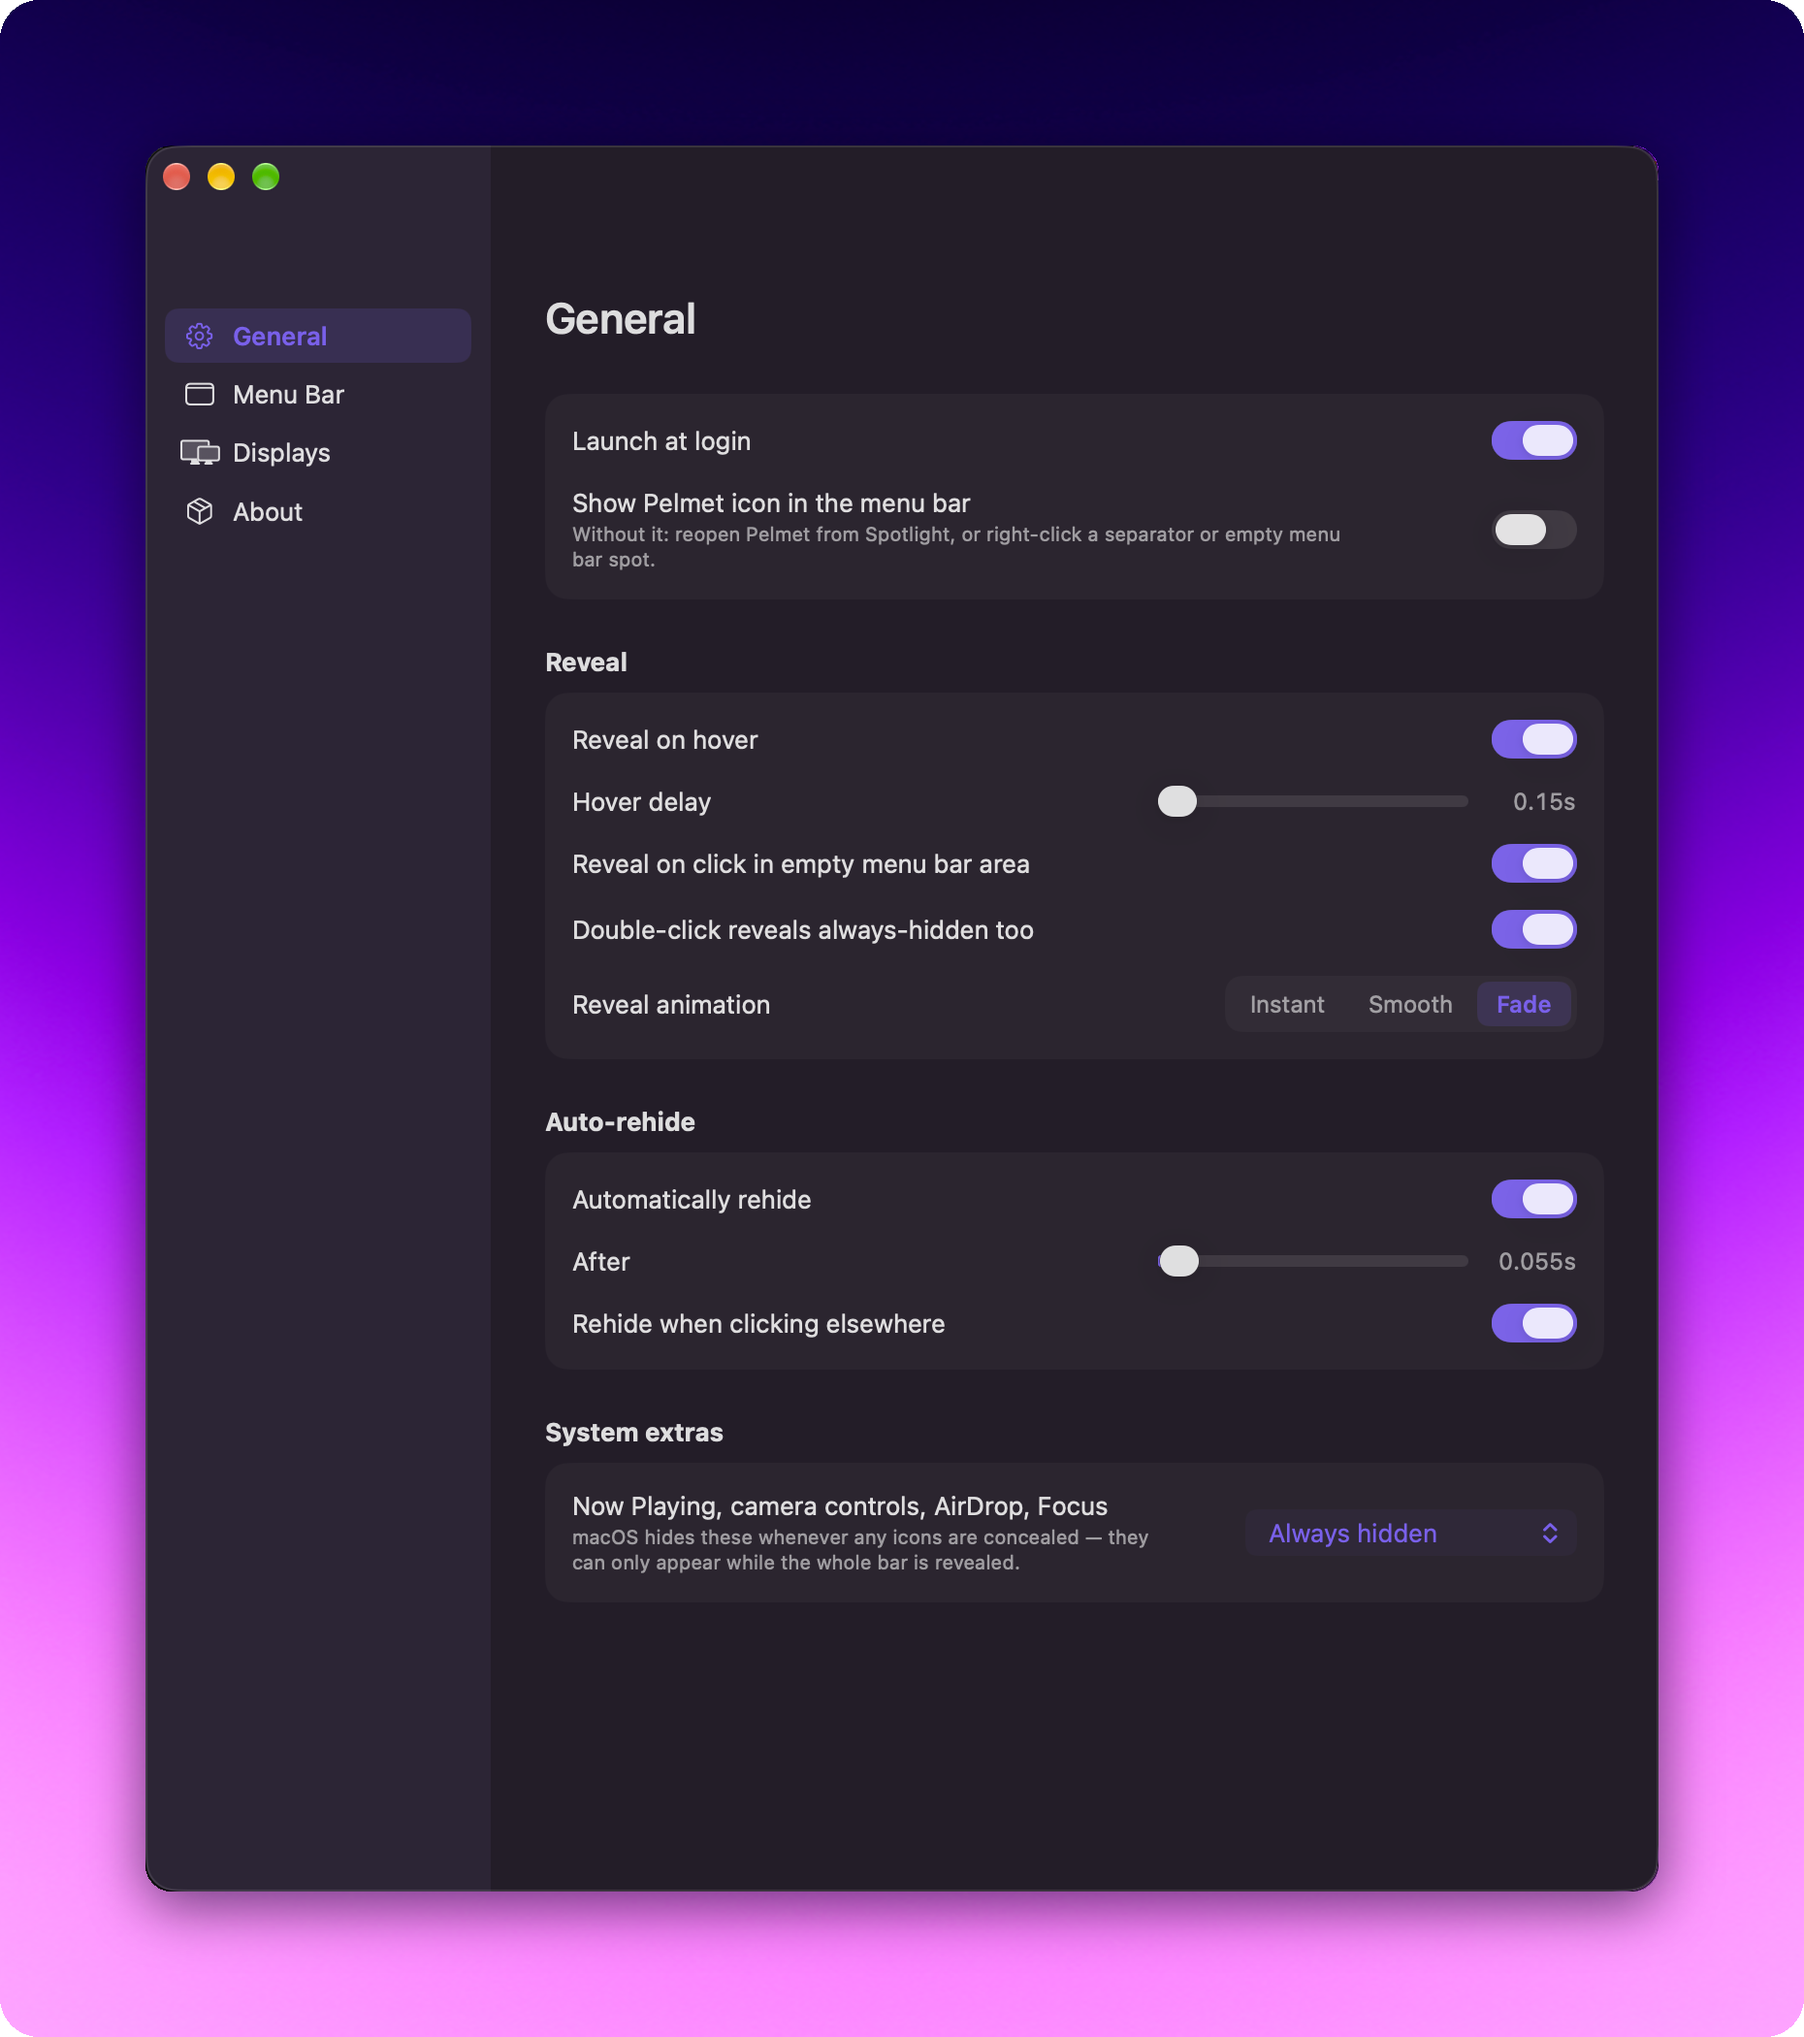
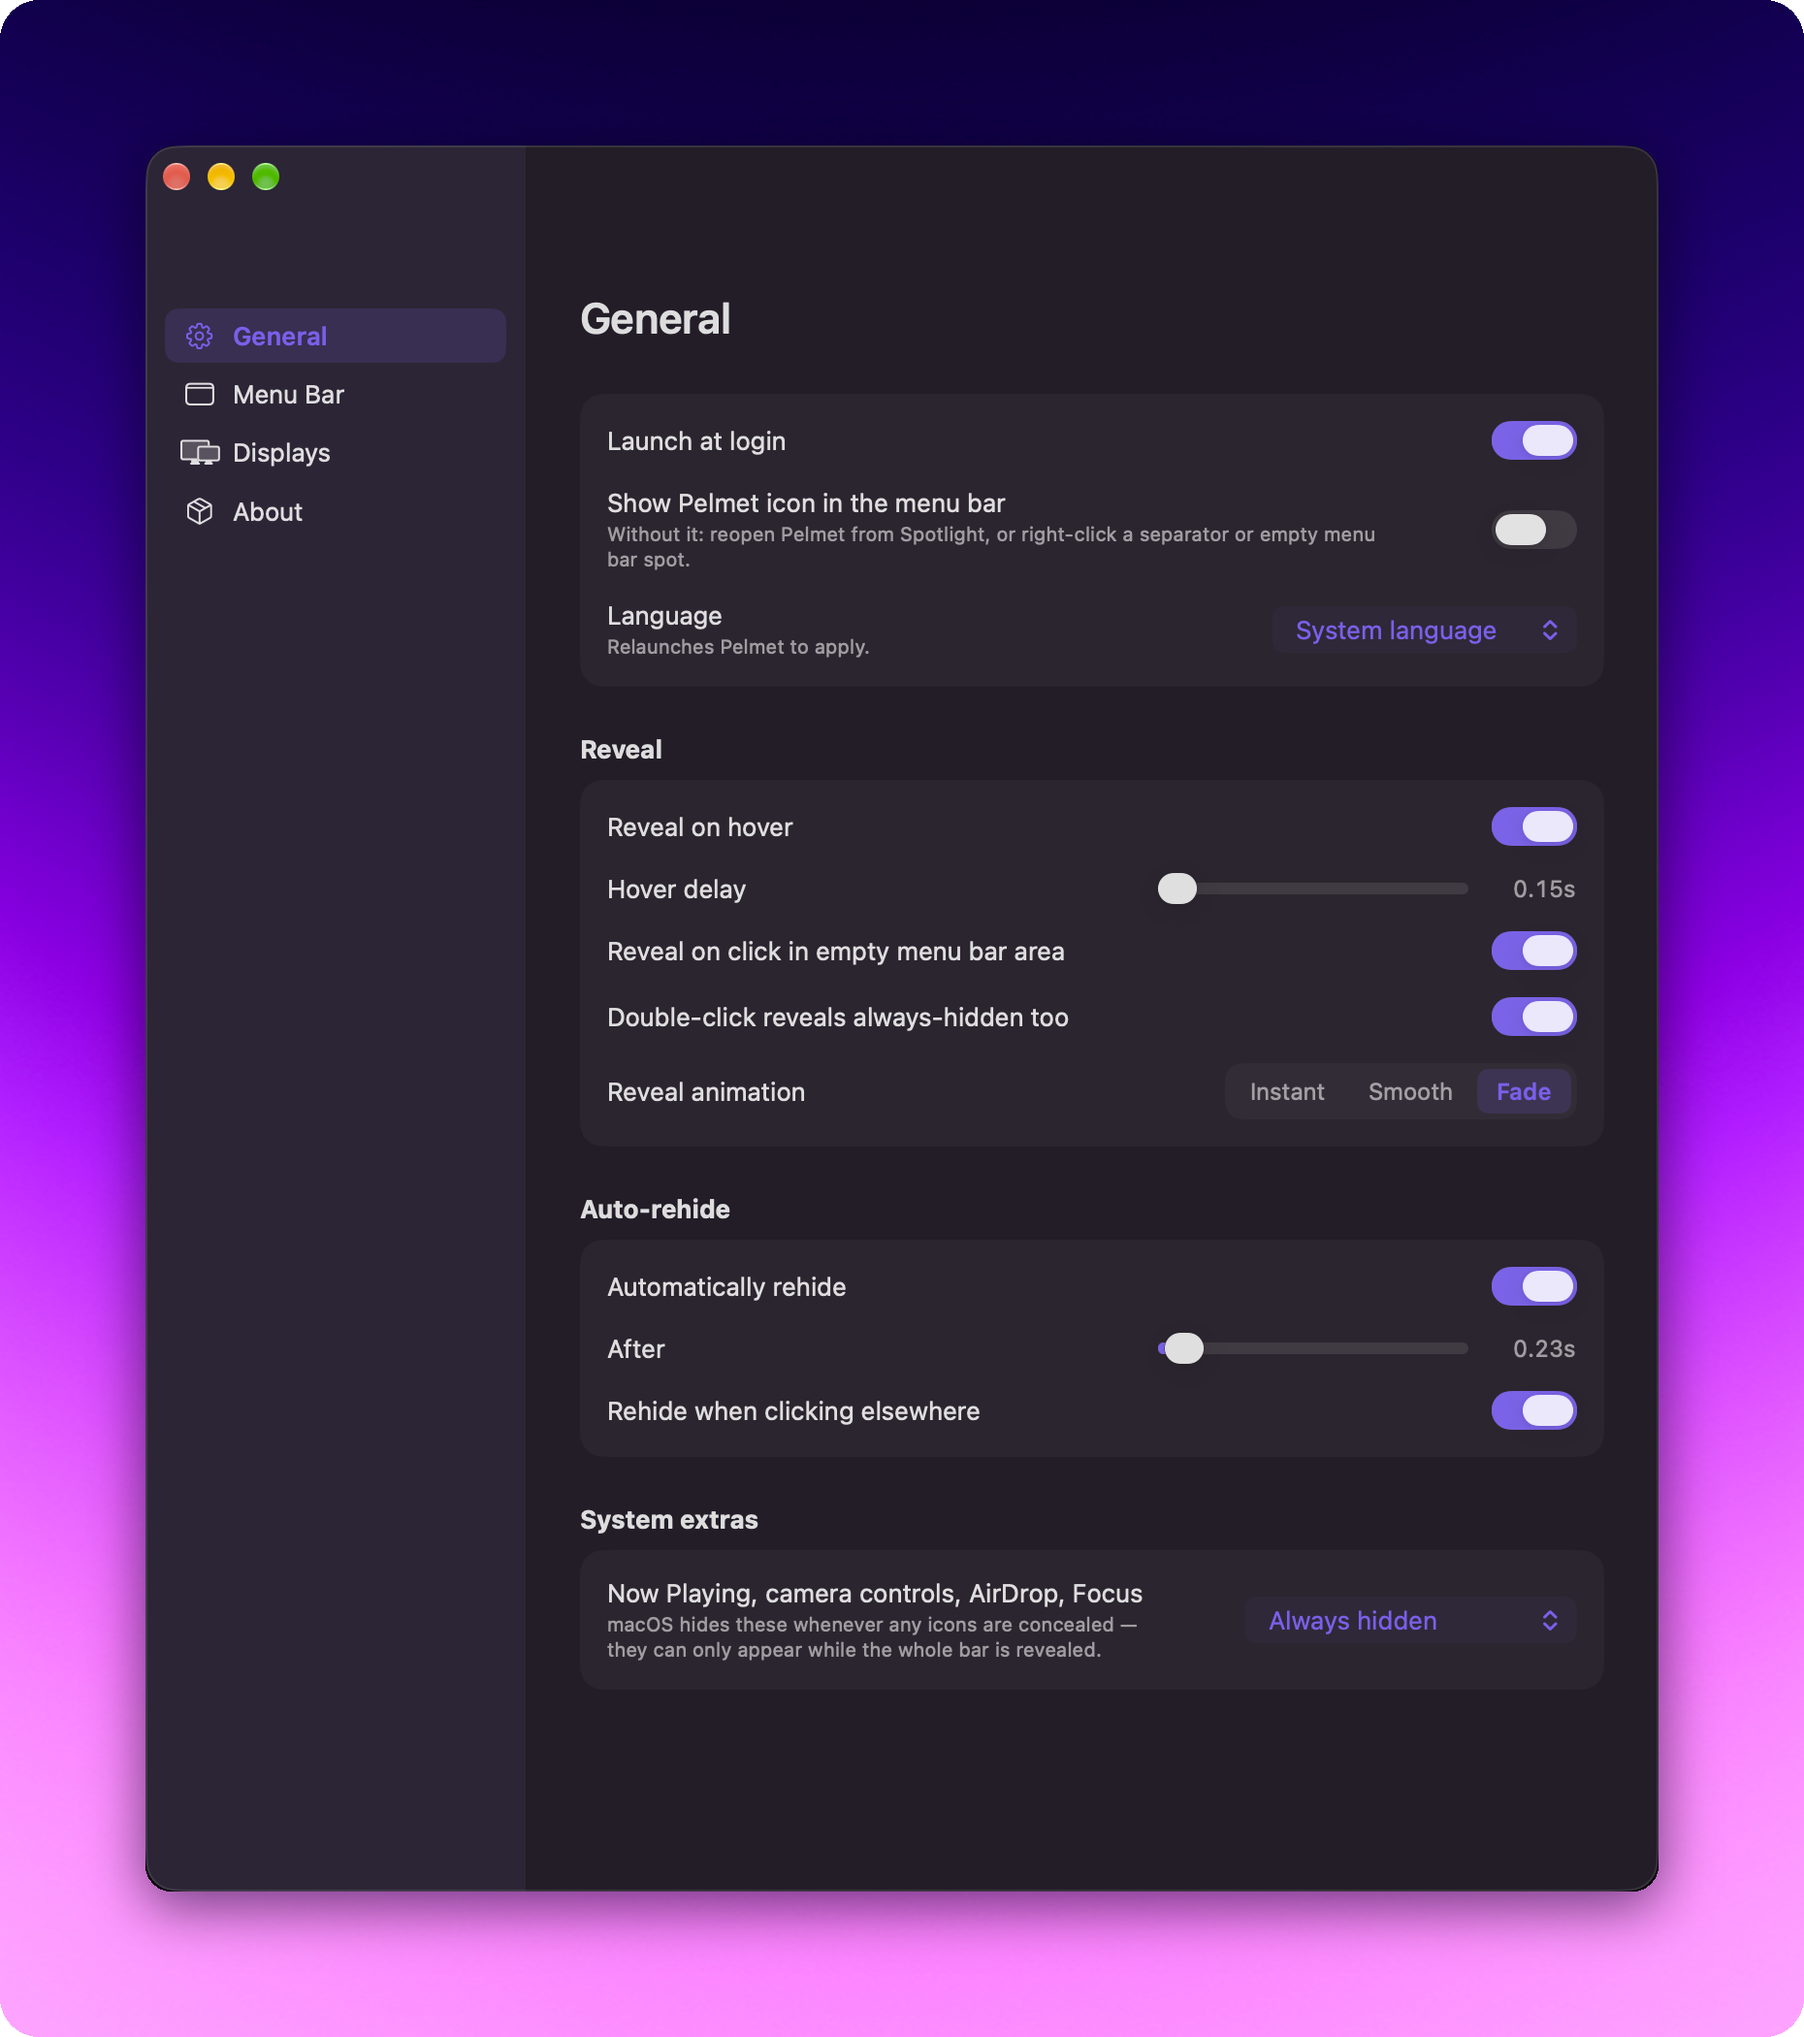
README + settings screenshot: language picker in the General pane, localization bullet — 2026-09-02

diff --git a/README.md b/README.md
@@ -49,7 +49,7 @@ and how it ends: auto-rehide after a delay you set, or the moment you click
 somewhere else.
 
 <p align="center">
-  <img src="docs/assets/screenshot-settings.png" alt="General settings: reveal on hover with delay, click and double-click reveals, Instant/Smooth/Fade animation, auto-rehide rules" width="640"><br>
+  <img src="docs/assets/screenshot-settings.png" alt="General settings: launch at login, menu bar icon, language picker, reveal on hover with delay, click and double-click reveals, Instant/Smooth/Fade animation, auto-rehide, system extras" width="640"><br>
   <sub>Your rules for revealing — and for putting everything back.</sub>
 </p>
 
@@ -66,10 +66,11 @@ somewhere else.
   The only connection Pelmet ever makes is checking for its own updates.
 - **Signed updates** — Sparkle with EdDSA signatures, checked against a
   signed appcast.
-- **Ten languages** — English, German, French, Spanish, Italian, Portuguese
-  (Brazil), Japanese, Simplified Chinese, Korean and Russian, following your
-  system language. Translations are AI-drafted; corrections welcome in
-  `scripts/gen-xcstrings.py`.
+- **Speaks your language** — English, German, French, Spanish, Italian,
+  Portuguese (Brazil), Japanese, Simplified Chinese, Korean and Russian.
+  Pelmet follows your system language, or pick one in Settings › General ›
+  Language. Translations are machine-drafted for now; corrections are welcome
+  in `scripts/gen-xcstrings.py`.
 
 ## How it works
 
